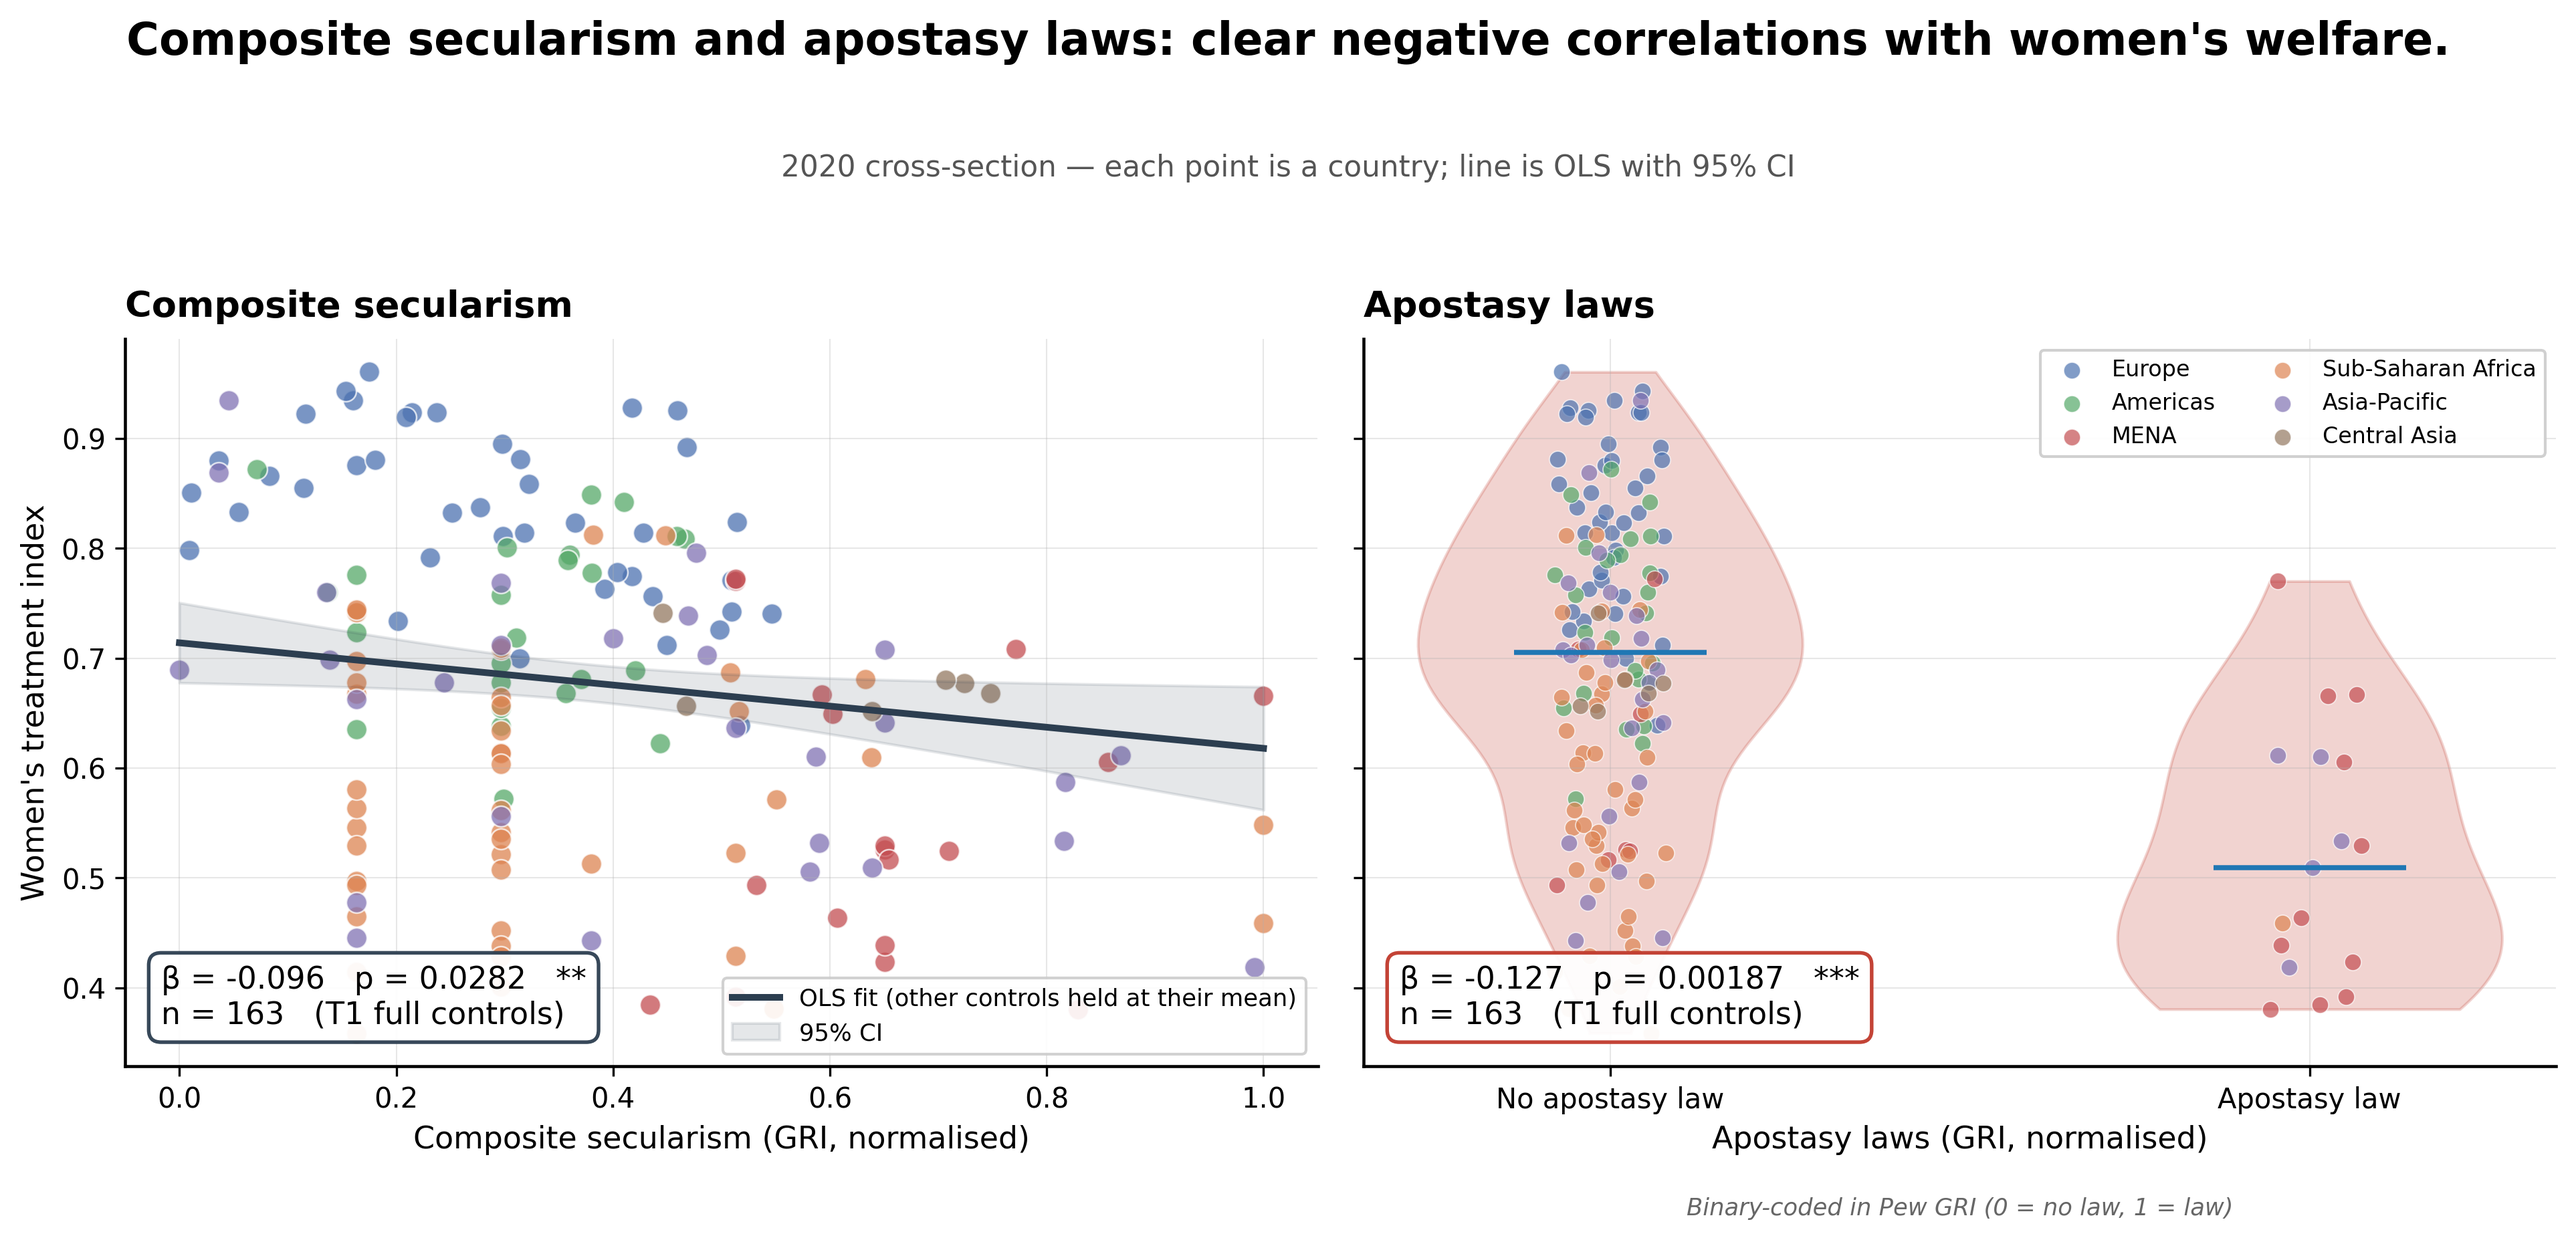
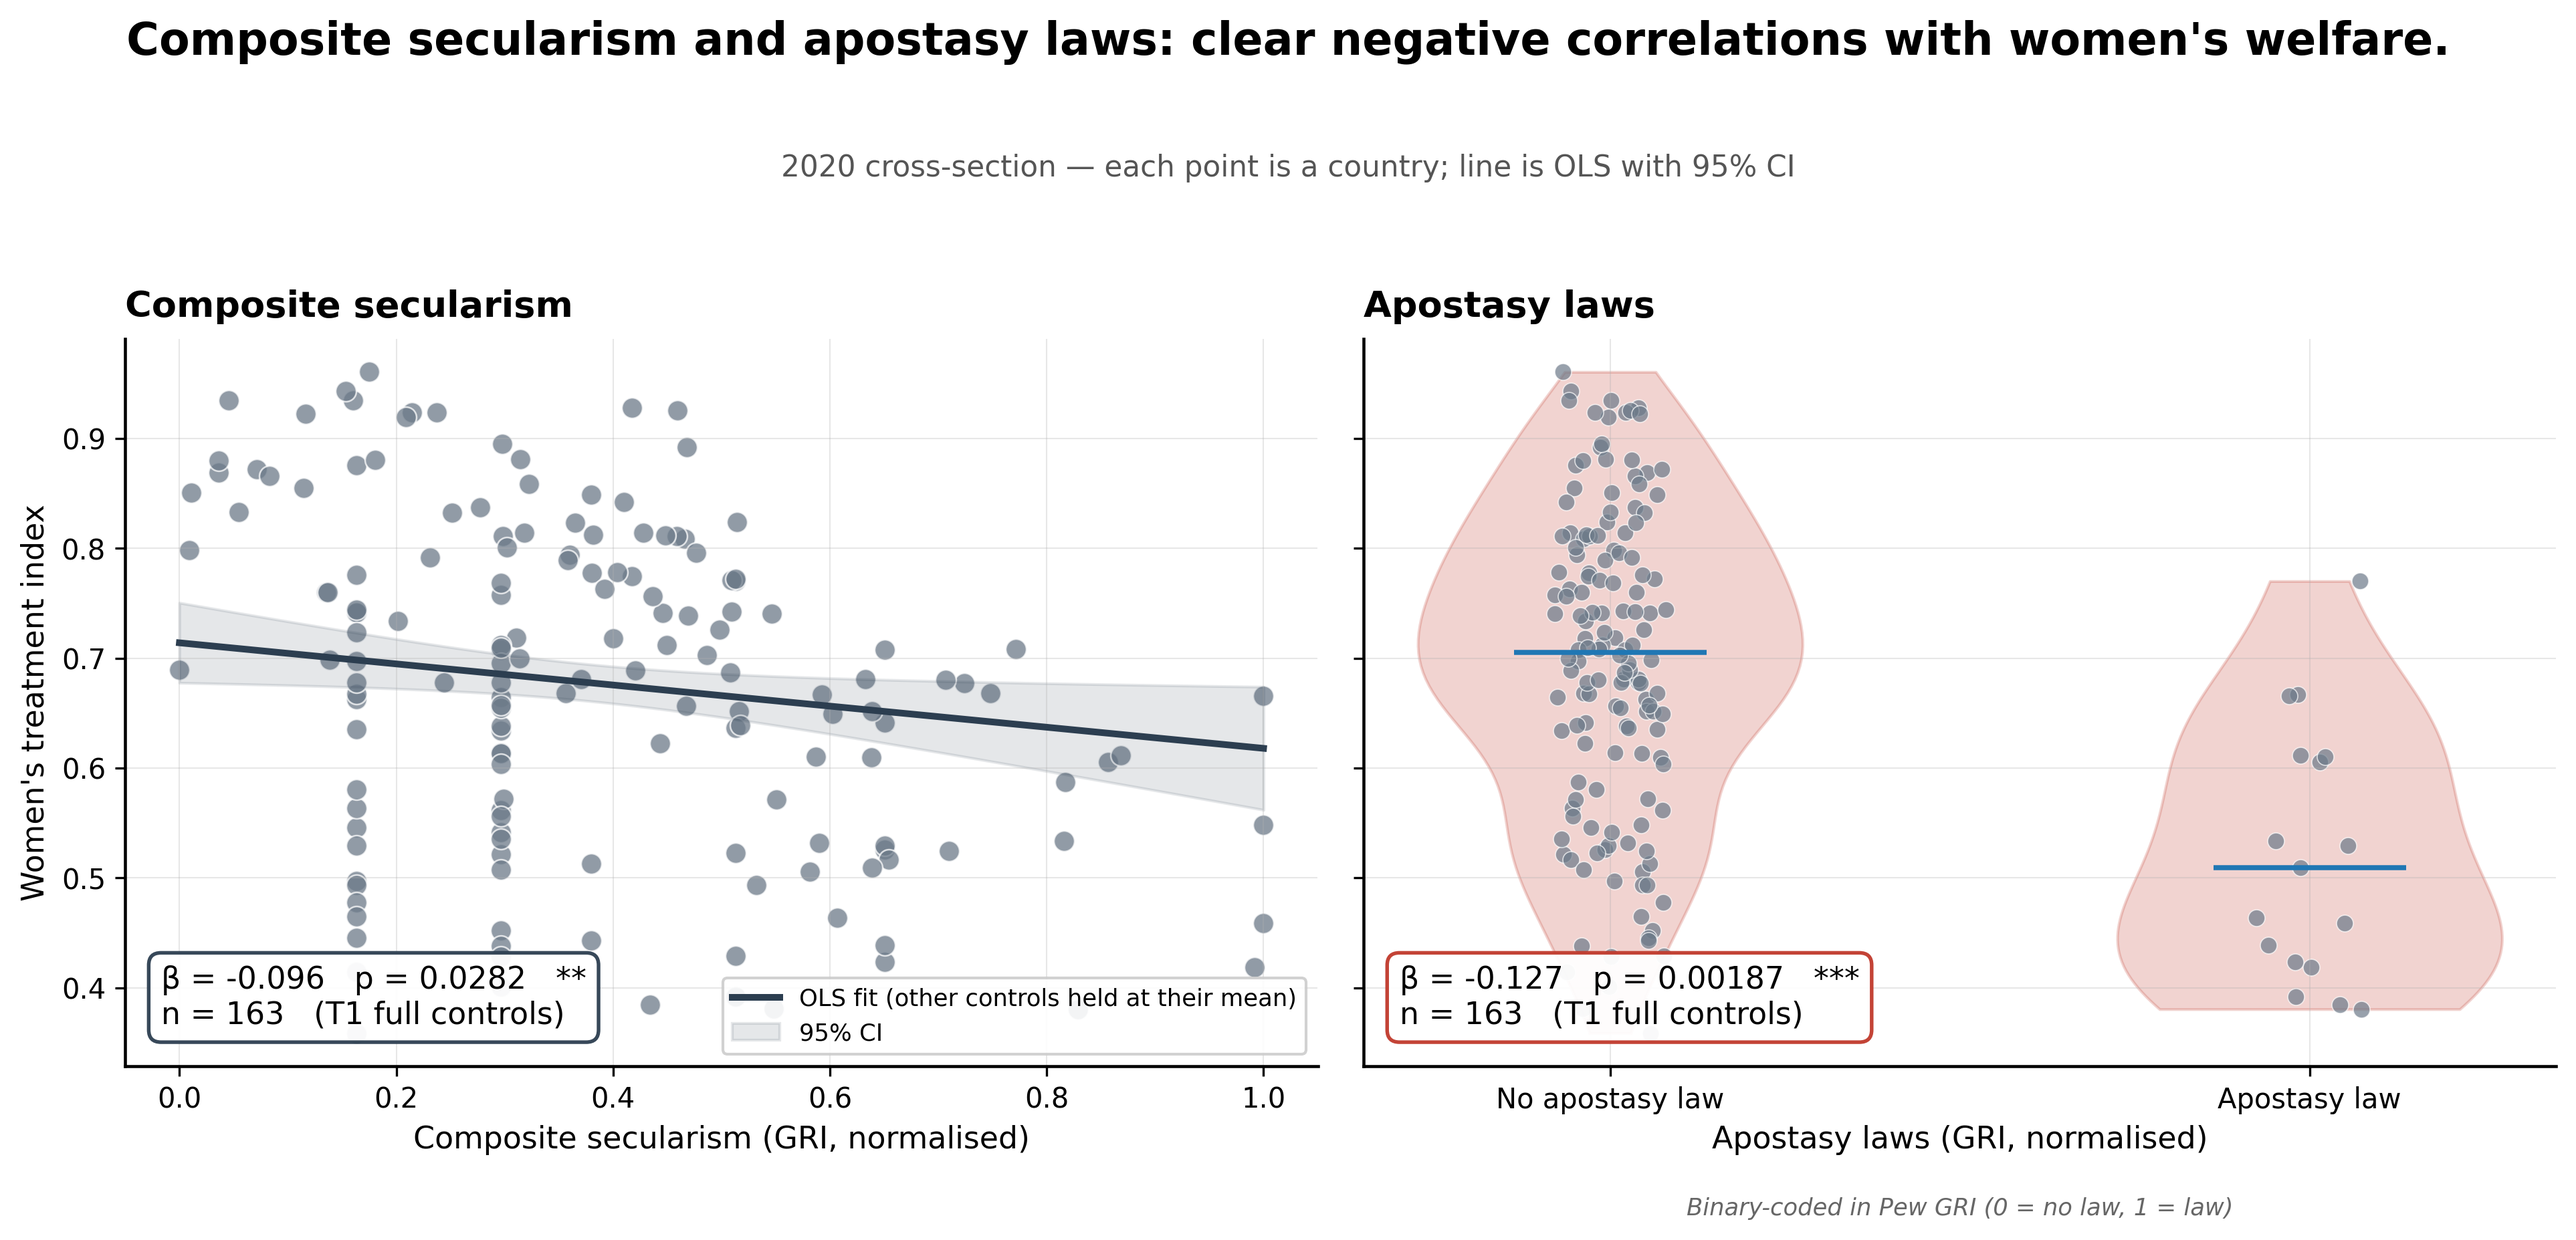
fix(figures): Phoebe round-3 — strip T-coding, neutral scatter, unfaded controls, WBL 3-tier palette
- Fig 3 / 12 / 13: drop T4/T5 tier prefixes from figure-visible text.
- Fig 01 scatter: uniform neutral grey dots (#6c7a89), regional legend
  removed from apostasy panel. Violin, OLS fit, 95% CI band unchanged.
- Fig 02 coefplot: drop light-grey background band and italic/faded
  styling on controls. Replace with a thin horizontal divider between
  blasphemy and rule-of-law. Controls render at full contrast.
- Fig 11 WBL groups: three-tier palette (red p<0.05 / amber p<0.10 /
  grey n.s.) with a legend. Stars and "n.s." removed from side
  annotations — colour now carries the significance signal. Three-tier
  treatment scoped to this figure only; _sig_colour untouched.

diff --git a/analysis/run_plots.py b/analysis/run_plots.py
@@ -267,14 +267,10 @@ def plot_scatter(df: pd.DataFrame):
                     pc.set_alpha(0.22)
                     pc.set_edgecolor(PALETTE["apostasy"])
             rng = np.random.default_rng(seed=1)
-            for region, color in REGION_COLORS.items():
-                sub = snap[snap["region"] == region]
-                if sub.empty:
-                    continue
-                jitter = rng.uniform(-0.08, 0.08, size=len(sub))
-                ax.scatter(sub[pred] + jitter, sub[OUTCOME],
-                           c=color, label=region, s=36, alpha=0.70,
-                           edgecolors="white", linewidth=0.4)
+            jitter = rng.uniform(-0.08, 0.08, size=len(snap))
+            ax.scatter(snap[pred] + jitter, snap[OUTCOME],
+                       c="#6c7a89", s=36, alpha=0.70,
+                       edgecolors="white", linewidth=0.4)
             ax.set_xticks([0, 1])
             ax.set_xticklabels(["No apostasy law", "Apostasy law"])
             ax.annotate(
@@ -287,15 +283,11 @@ def plot_scatter(df: pd.DataFrame):
             )
         else:
             # Left panel — composite is continuous; keep the scatter, OLS fit
-            # and 95% CI band. Regional colour, no country anchors per Q9.
-            # Region labels are suppressed with a leading underscore so the
-            # composite panel's own legend only lists OLS fit + 95% CI.
-            for region, color in REGION_COLORS.items():
-                sub = snap[snap["region"] == region]
-                if sub.empty:
-                    continue
-                ax.scatter(sub[pred], sub[OUTCOME], c=color, label=f"_{region}",
-                           s=55, alpha=0.75, edgecolors="white", linewidth=0.6)
+            # and 95% CI band. Uniform neutral grey dots (no regional colour),
+            # no country anchors per Q9. The composite panel's legend only
+            # lists OLS fit + 95% CI.
+            ax.scatter(snap[pred], snap[OUTCOME], c="#6c7a89", s=55,
+                       alpha=0.75, edgecolors="white", linewidth=0.6)
             # Prediction line: vary pred, hold every other regressor at its mean.
             x_grid = np.linspace(snap[pred].min(), snap[pred].max(), 100)
             means  = snap[pred_cols].mean()
@@ -323,11 +315,9 @@ def plot_scatter(df: pd.DataFrame):
         ax.grid(alpha=0.3, linewidth=0.5)
 
     axes[0].set_ylabel("Women's treatment index")
-    # Regional legend on the right (apostasy) panel, upper-right to stay
-    # clear of the β/p annotation in lower-left. Composite panel gets its
-    # own legend for the OLS-fit line and 95% CI band, lower-right clear
-    # of the β/p box in lower-left.
-    axes[1].legend(loc="upper right", framealpha=0.92, ncol=2, fontsize=8)
+    # Composite panel legend for the OLS-fit line and 95% CI band,
+    # lower-right clear of the β/p box in lower-left. No regional legend on
+    # the apostasy panel — dots are uniform neutral grey now.
     axes[0].legend(loc="lower right", fontsize=8.5,
                    framealpha=0.9, frameon=True)
 
@@ -451,26 +441,18 @@ def plot_coefplot():
                 ax.axhspan(i - 0.5, i + 0.5,
                            color=PALETTE["highlight_bg"], alpha=0.9, zorder=0)
 
-        # Visually demote the control block with a light grey band so viewers
-        # read them as covariates, not hypotheses.
         ctrl_idx = [i for i, row in plot_rows.iterrows() if row["is_control"]]
         if ctrl_idx:
-            ax.axhspan(min(ctrl_idx) - 0.5, max(ctrl_idx) + 0.5,
-                       color="#f2f2f2", alpha=0.6, zorder=0)
+            # Horizontal divider between hypothesis rows (above) and controls
+            # (below). Replaces the prior light-grey background band.
+            ax.axhline(max(ctrl_idx) + 0.5, color="#333", linewidth=0.8,
+                       alpha=0.7, zorder=1)
 
         for i, row in plot_rows.iterrows():
-            # Controls render in plain grey regardless of significance — they
-            # are not predictors of interest.
-            if row["is_control"]:
-                color = "#9aa5a8"
-                alpha = 0.55
-                marker_size = 50
-                lw = 1.2
-            else:
-                color = _sig_colour(row["pval"])
-                alpha = 1.0 if row["focal"] else 0.45
-                marker_size = 110 if row["focal"] else 60
-                lw = 2.4 if row["focal"] else 1.5
+            color = _sig_colour(row["pval"])
+            alpha = 1.0 if row["focal"] else 0.45
+            marker_size = 110 if row["focal"] else 60
+            lw = 2.4 if row["focal"] else 1.5
 
             ax.plot([row["coef"] - row["ci95"], row["coef"] + row["ci95"]], [i, i],
                     color=color, linewidth=lw, alpha=alpha, solid_capstyle="round",
@@ -497,14 +479,11 @@ def plot_coefplot():
             else:
                 tick_labels.append(r["label"])
         ax.set_yticklabels(tick_labels, fontsize=10)
-        # Bold the focal tick labels; lighten the control row label
+        # Bold the focal tick labels; everything else renders in standard grey.
         for lbl, r in zip(ax.get_yticklabels(), plot_rows.itertuples()):
             if r.focal:
                 lbl.set_fontweight("bold")
                 lbl.set_color("#222")
-            elif r.is_control:
-                lbl.set_color("#999")
-                lbl.set_style("italic")
             else:
                 lbl.set_color("#666")
 
@@ -1163,13 +1142,25 @@ def plot_wbl_groups():
     }
     focal["group_label"] = focal["group_label"].replace(WBL_GROUP_RENAME)
 
+    def _sig_colour_wbl(pval):
+        # Three-tier palette used only on this figure: p<0.05, p<0.10
+        # marginal, n.s. Red and grey piggyback on the deck's existing
+        # two-tier palette via _sig_colour; amber is unique to this plot.
+        if pd.isna(pval):
+            return _sig_colour(1.0)
+        if pval < 0.05:
+            return _sig_colour(0.01)
+        if pval < 0.10:
+            return "#e8a33d"
+        return _sig_colour(1.0)
+
     n = len(focal)
     fig, ax = plt.subplots(figsize=(11, max(5, n * 0.55 + 2)))
 
     for j in range(n):
         row   = focal.iloc[j]
         y_pos = n - 1 - j
-        color = _sig_colour(row["pval"])
+        color = _sig_colour_wbl(row["pval"])
         ci95  = 1.96 * row["se"]
 
         ax.plot([row["coef"] - ci95, row["coef"] + ci95], [y_pos, y_pos],
@@ -1178,8 +1169,7 @@ def plot_wbl_groups():
                    color=color, s=90, zorder=4,
                    edgecolors="white", linewidths=0.8)
 
-        stars = _sig_stars(row["pval"]) or "n.s."
-        ann = f"β = {row['coef']:+.3f}   {stars}"
+        ann = f"β = {row['coef']:+.3f}"
         ax.annotate(ann, xy=(row["coef"] + ci95, y_pos),
                     xytext=(8, 0), textcoords="offset points",
                     fontsize=9, va="center", color="#333")
@@ -1221,6 +1211,15 @@ def plot_wbl_groups():
     )
 
     ax.grid(axis="x", alpha=0.3, linewidth=0.5)
+
+    from matplotlib.patches import Patch
+    legend_handles = [
+        Patch(facecolor=_sig_colour(0.01),  label="p < 0.05"),
+        Patch(facecolor="#e8a33d",          label="p < 0.10 (marginal)"),
+        Patch(facecolor=_sig_colour(1.0),   label="Not significant"),
+    ]
+    ax.legend(handles=legend_handles, loc="lower right", frameon=True,
+              framealpha=0.95, fontsize=9)
 
     plt.tight_layout()
     plt.savefig(OUT_WBL_GROUPS, dpi=300, bbox_inches="tight")
@@ -1422,7 +1421,7 @@ def plot_between_within(df: pd.DataFrame):
 
     # Mundlak annotation — pulled from results/results.csv T4_mundlak_re rows
     ax.annotate(
-        "T4 Mundlak decomposition:\n"
+        "Mundlak decomposition:\n"
         "  Between β = −0.120  (p = 0.014)\n"
         "  Within  β = +0.019  (p = 0.24)\n"
         "  Ratio ≈ 6.3×, opposite signs\n"
@@ -1554,7 +1553,7 @@ def plot_mundlak_decomposition():
     )
     fig.text(
         0.5, 0.99,
-        "T4 Mundlak RE-FE hybrid: within-country change (left) vs between-country structural differences (right)",
+        "Mundlak RE-FE hybrid: within-country change (left) vs between-country structural differences (right)",
         ha="center", fontsize=11, color="#555",
     )
 
@@ -1679,7 +1678,7 @@ def plot_long_difference():
     )
     fig.text(
         0.5, 0.97,
-        "T5 long-difference: Δoutcome on Δfocal + Δcontrols, 2013→2022 with GDP, HC3 SEs, one obs per country.",
+        "Long-difference: Δoutcome on Δfocal + Δcontrols, 2013→2022 with GDP, HC3 SEs, one obs per country.",
         ha="center", fontsize=10.5, color="#555",
     )
 
